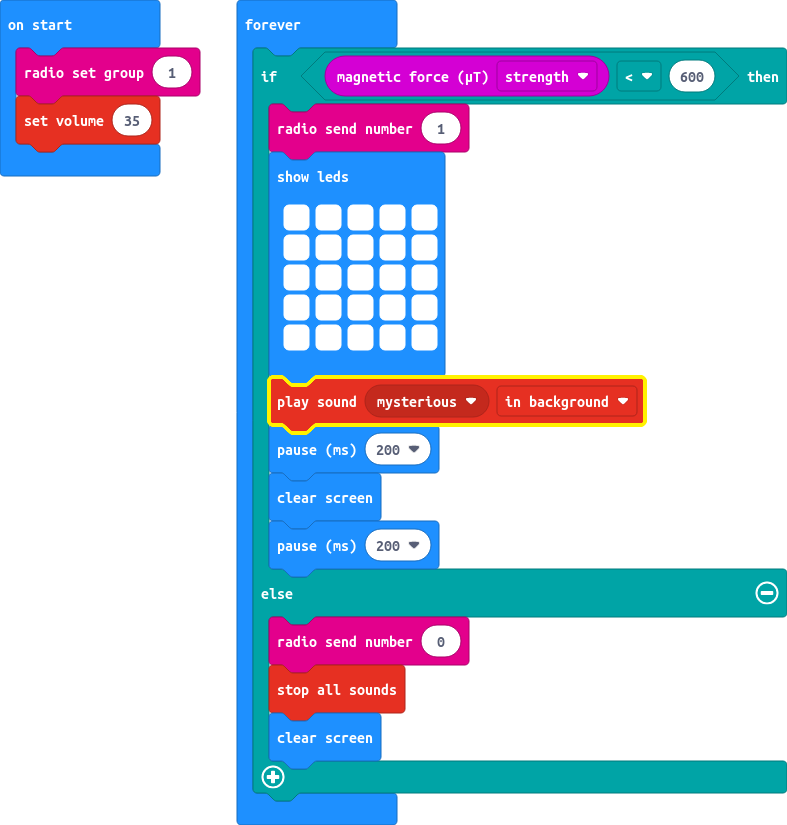
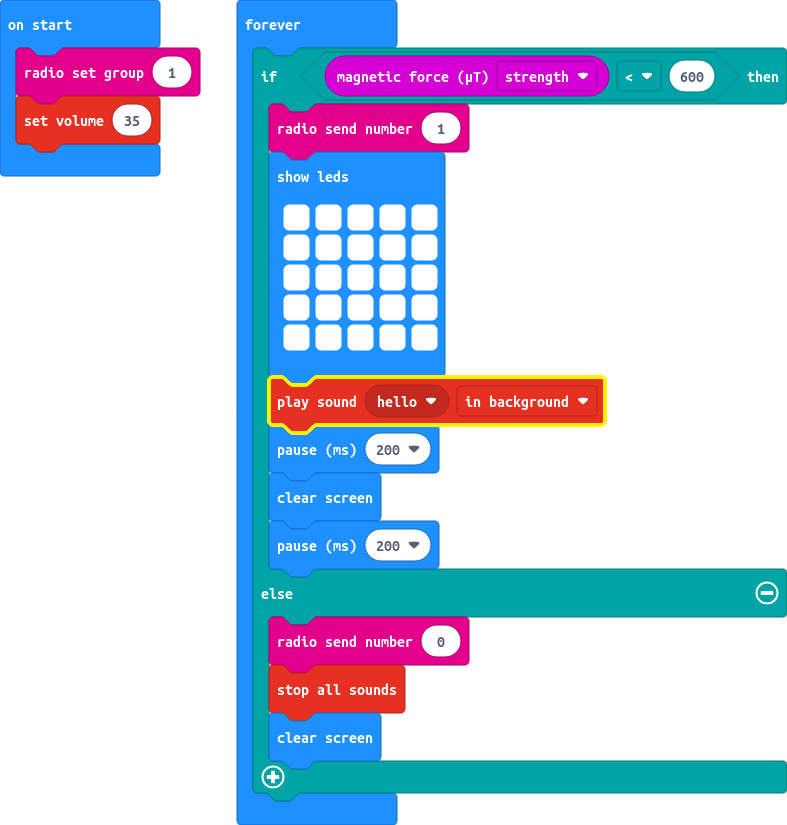
Update main.blocks, main.ts

Changed region(s): [[0.4879, 0.4545, 0.8234, 0.5152]]

diff --git a/main.ts b/main.ts
@@ -10,7 +10,7 @@ basic.forever(function () {
             # # # # #
             # # # # #
             `)
-        music.playSoundEffect(music.builtinSoundEffect(soundExpression.mysterious), SoundExpressionPlayMode.InBackground)
+        music.playSoundEffect(music.builtinSoundEffect(soundExpression.hello), SoundExpressionPlayMode.InBackground)
         basic.pause(200)
         basic.clearScreen()
         basic.pause(200)
